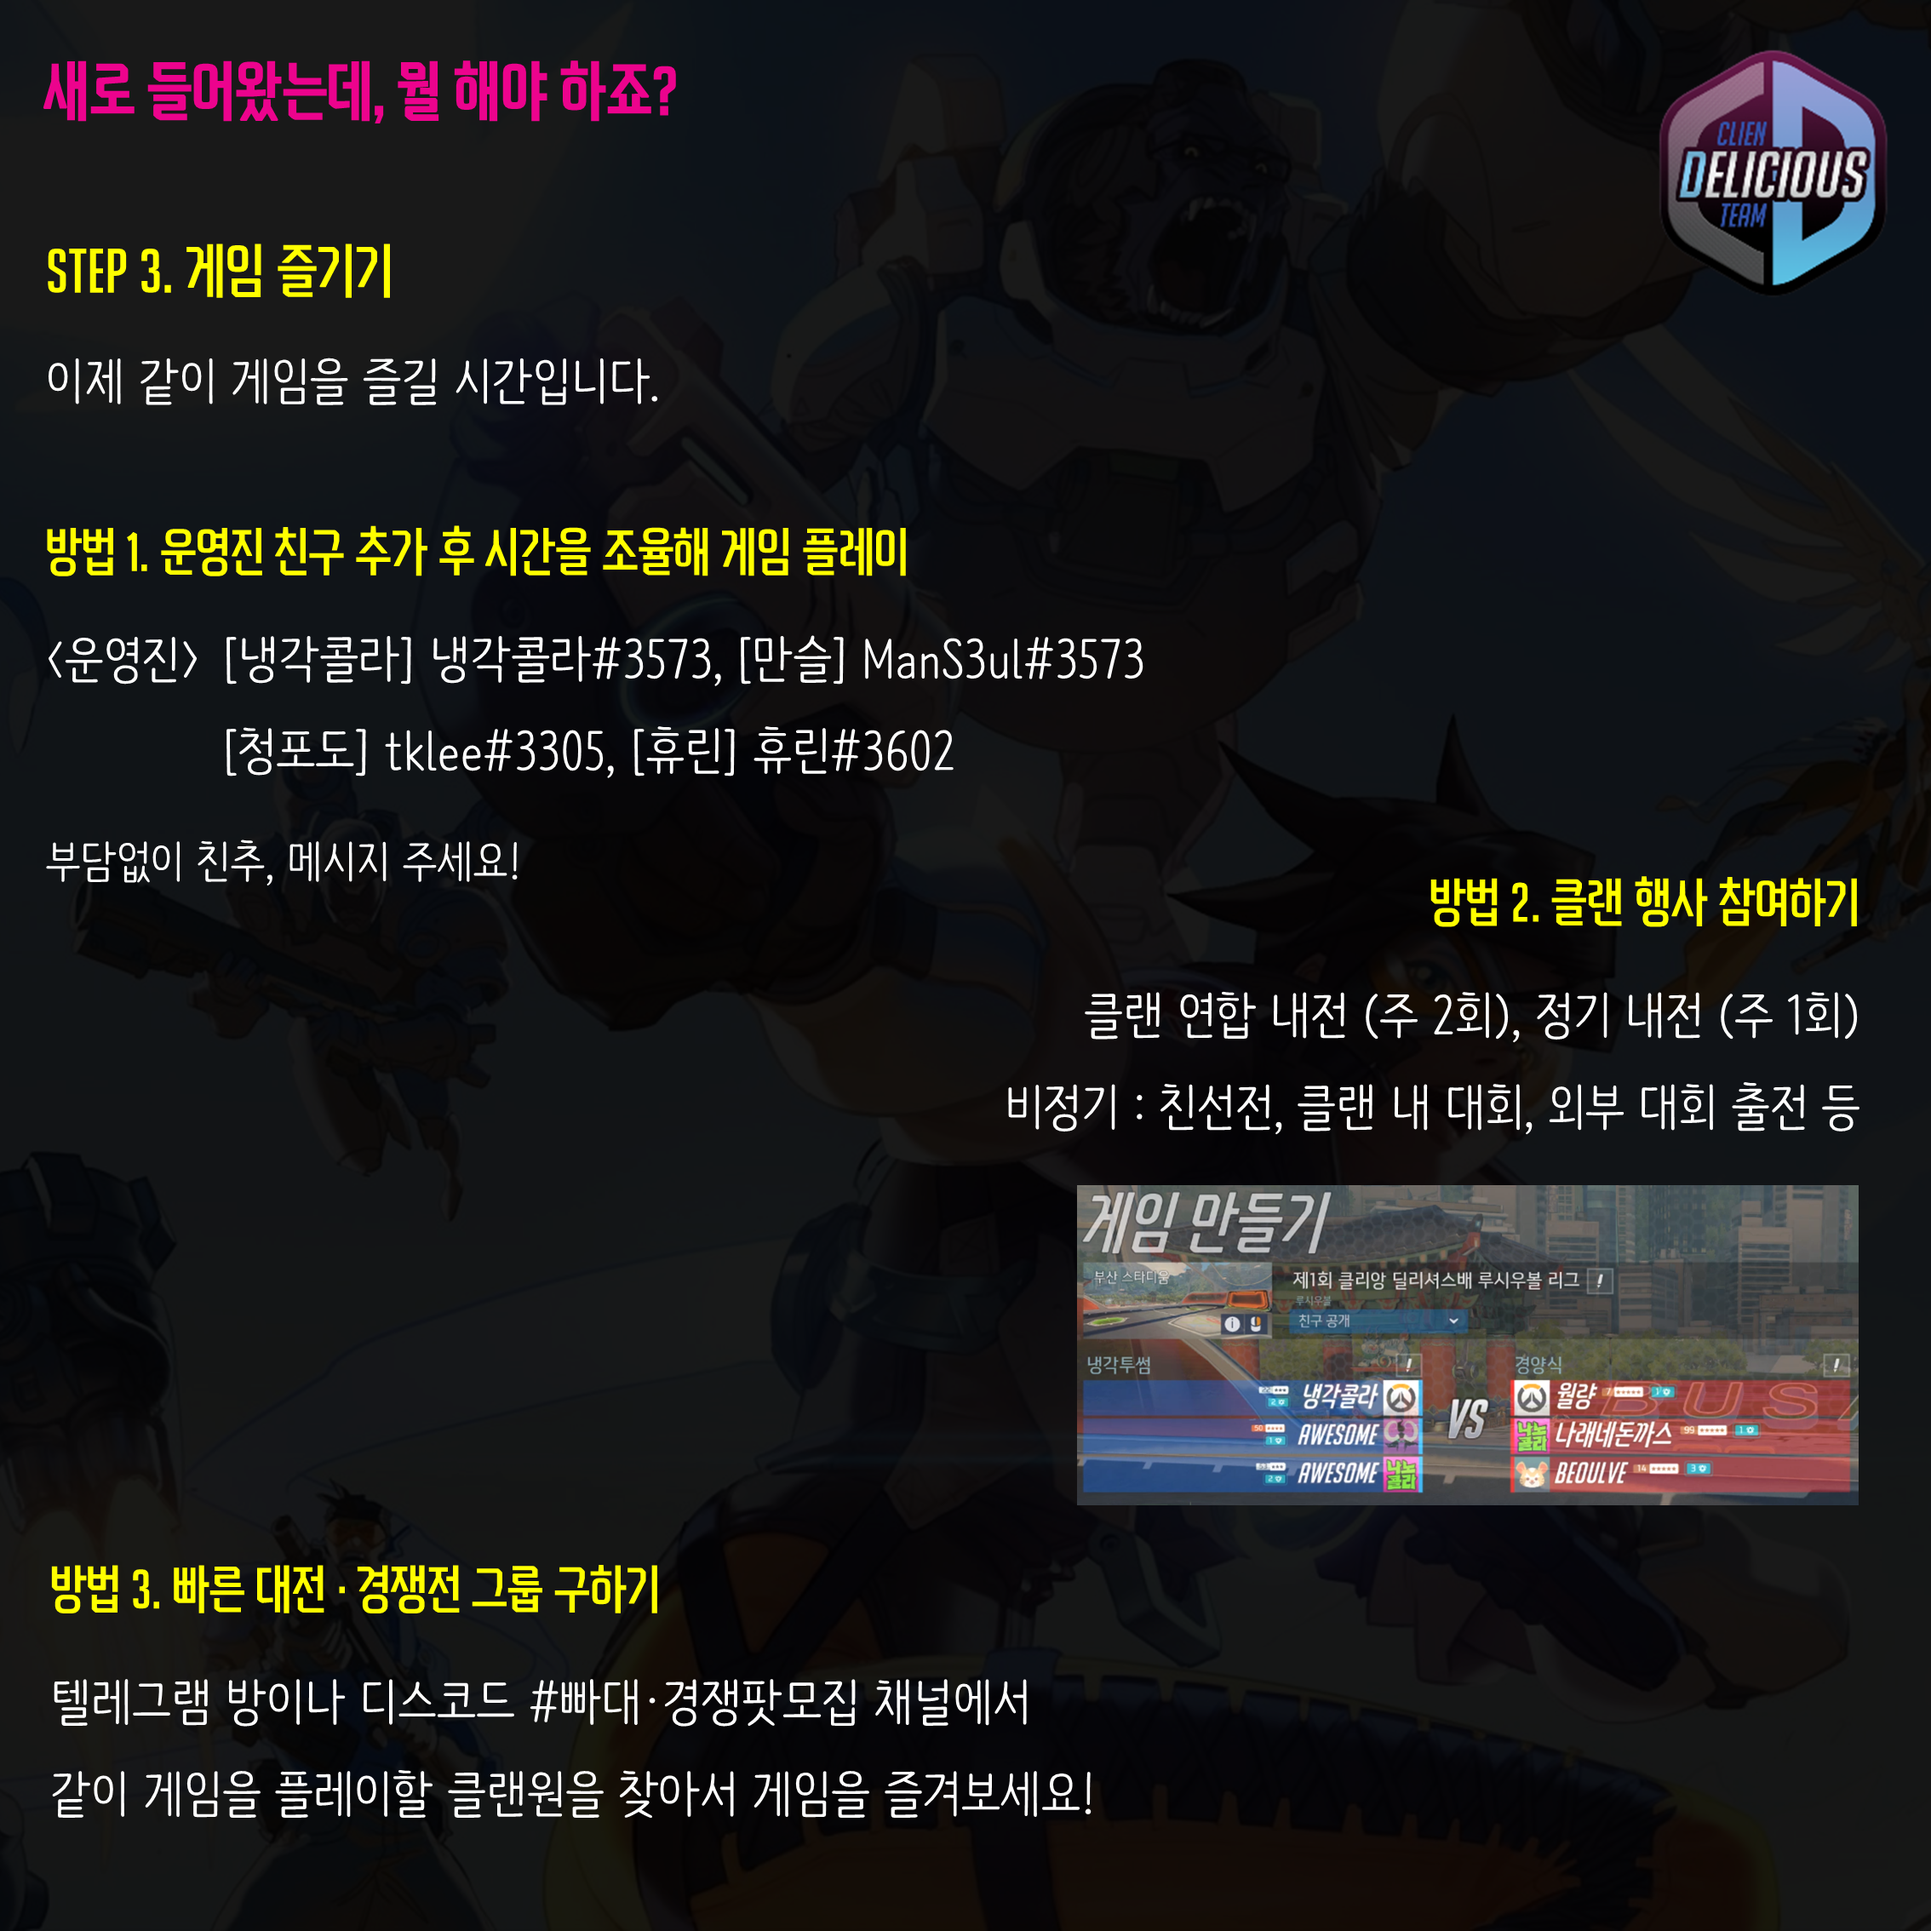
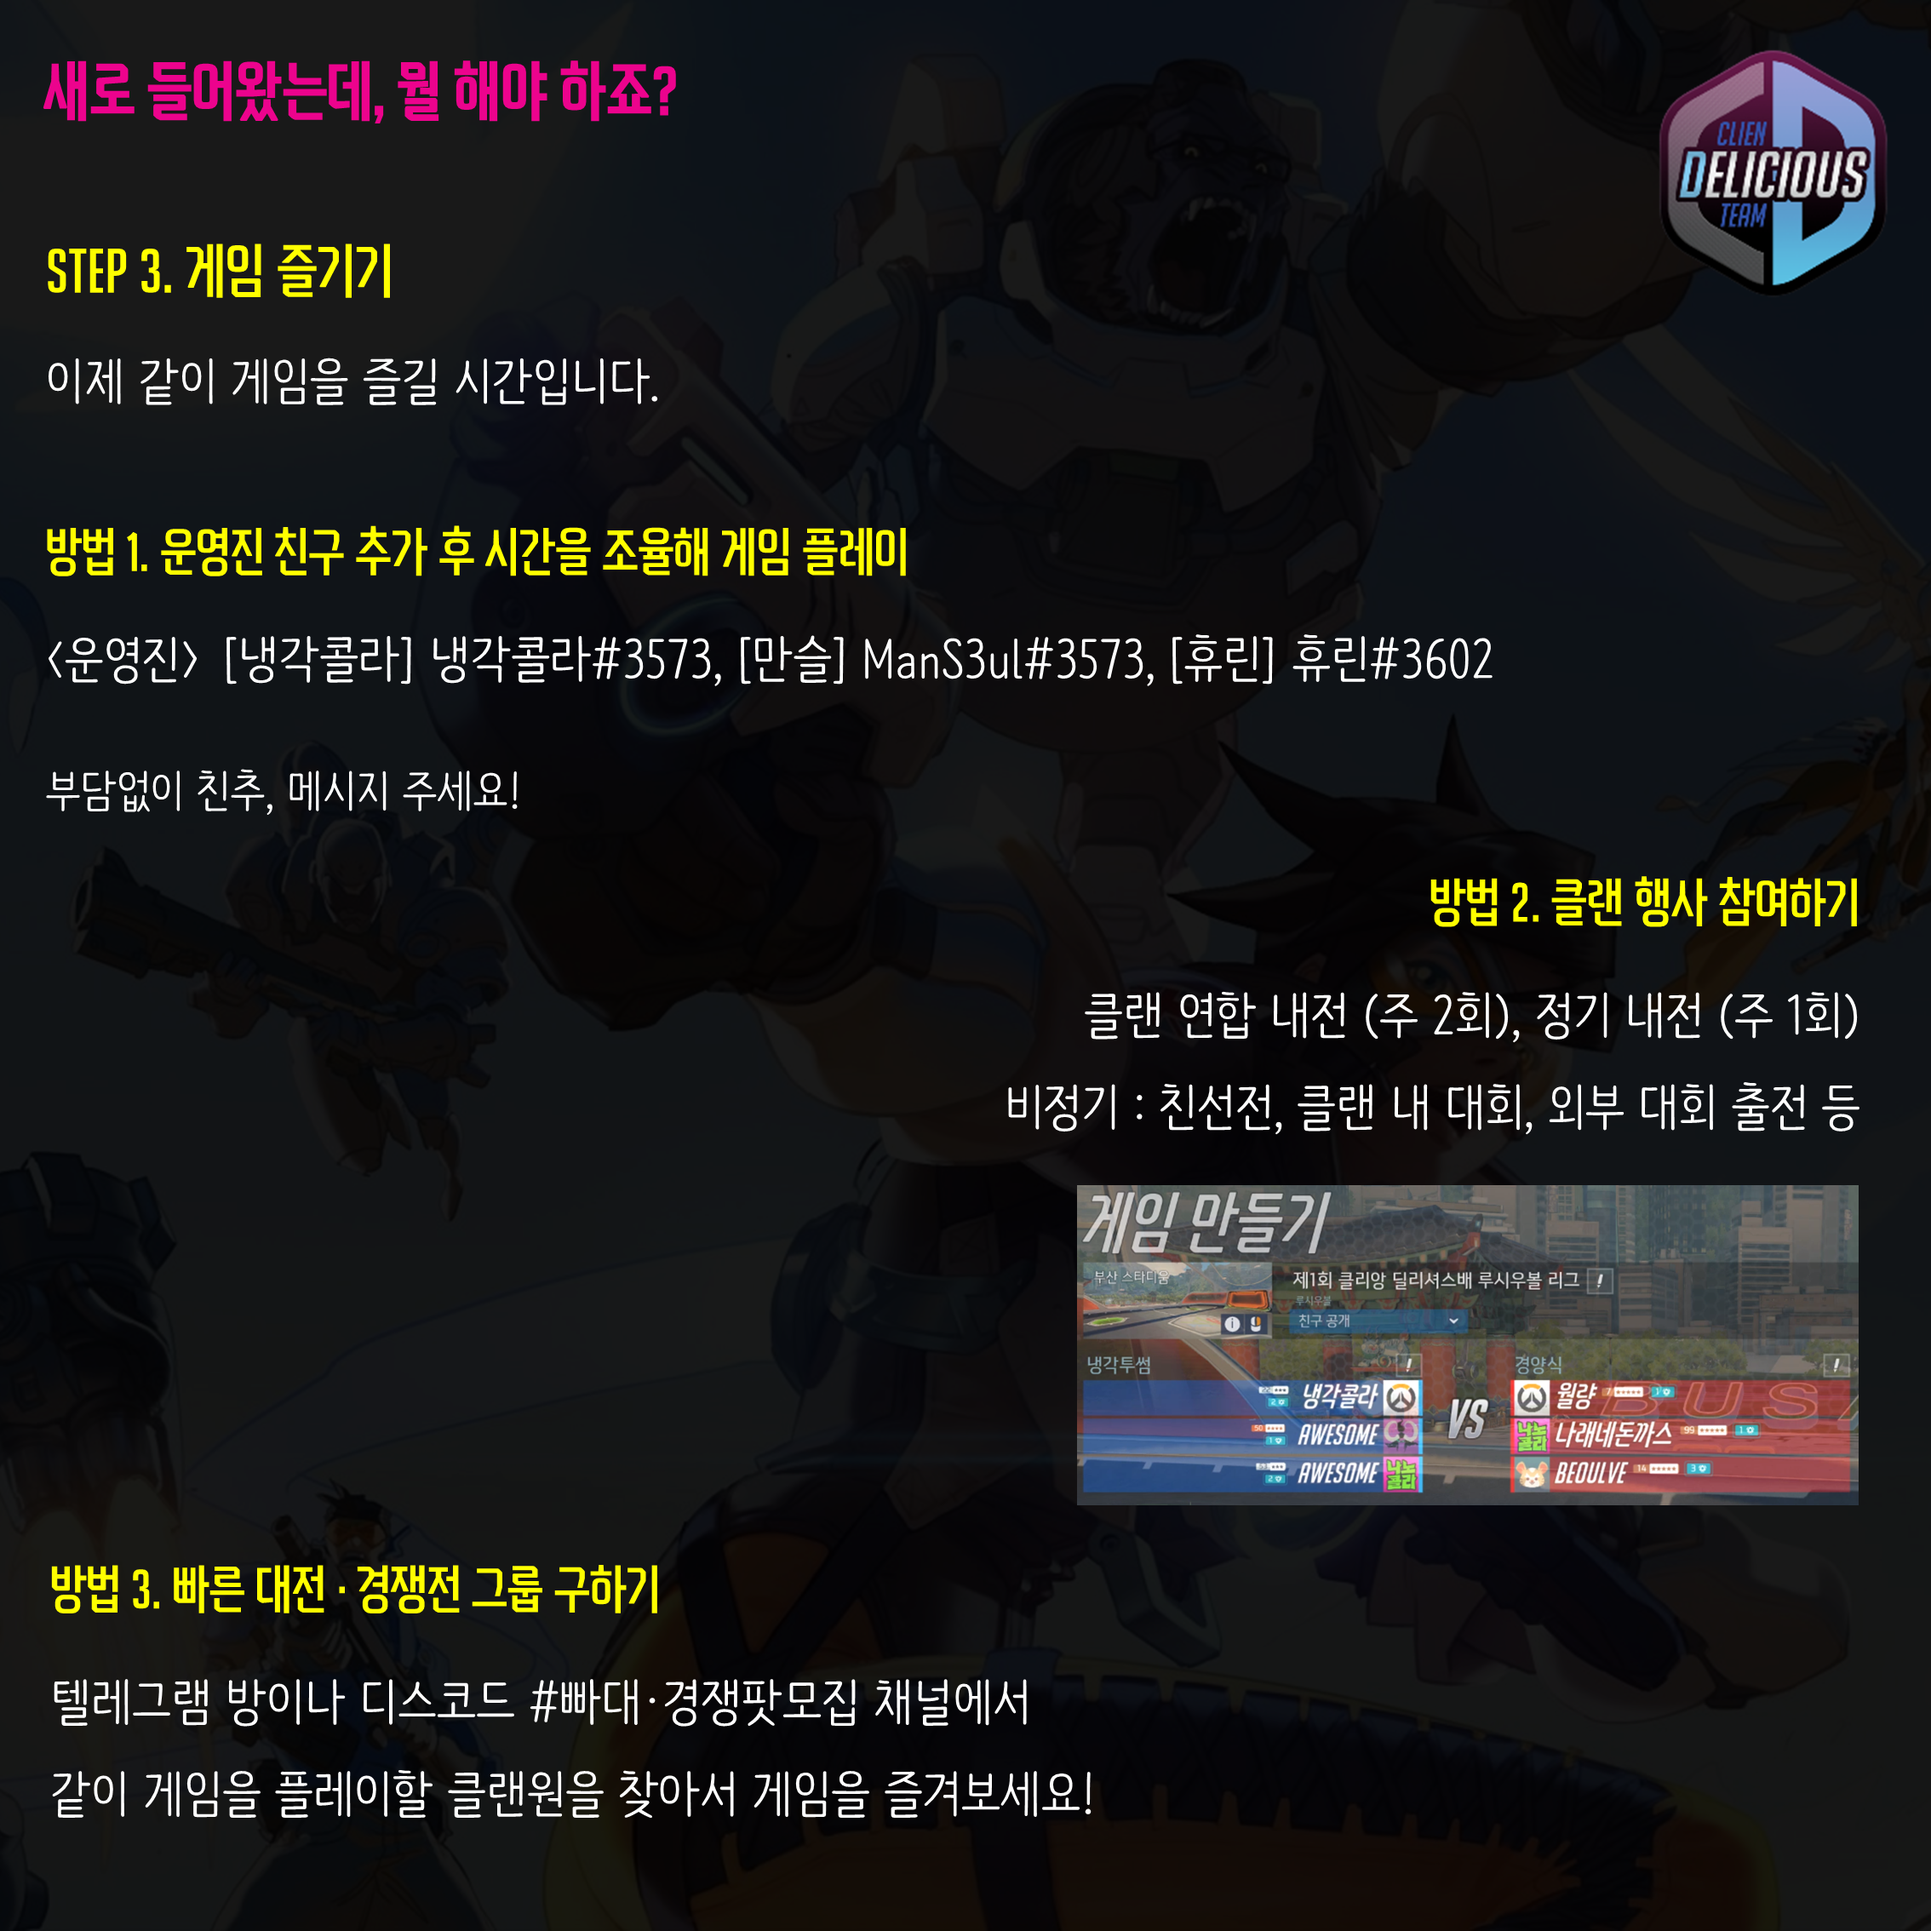
이미지 변경, 운영자 수정

Changed region(s): [[0.0309, 0.3704, 0.4938, 0.463], [0.6173, 0.3086, 0.7716, 0.3704]]

diff --git a/Athena/System/CBotClient.cs b/Athena/System/CBotClient.cs
@@ -145,8 +145,8 @@ namespace Athena
                         CUser user = new CUser();
                         user = setUserInfo(row, Convert.ToInt64(row[10].ToString()));
 
-                        // 휴린, 냉각콜라, 만슬, 청포도일 경우
-                        if ( (user.UserKey == 23842788) || (user.UserKey == 50872681) || (user.UserKey == 474057213) || (user.UserKey == 35432635) )
+                        // 휴린, 냉각콜라, 만슬일 경우
+                        if ( (user.UserKey == 23842788) || (user.UserKey == 50872681) || (user.UserKey == 474057213) )
                         {
                             // 유저 타입을 관리자로
                             user.UserType = USER_TYPE.USER_TYPE_ADMIN;
@@ -192,8 +192,8 @@ namespace Athena
             user.Time = row[8].ToString();
             user.Info = row[9].ToString();
 
-            // 휴린, 냉각콜라, 만슬, 청포도일 경우
-            if ((user.UserKey == 23842788) || (user.UserKey == 50872681) || (user.UserKey == 474057213) || (user.UserKey == 35432635))
+            // 휴린, 냉각콜라, 만슬일 경우
+            if ((user.UserKey == 23842788) || (user.UserKey == 50872681) || (user.UserKey == 474057213))
             {
                 // 유저 타입을 관리자로
                 user.UserType = USER_TYPE.USER_TYPE_ADMIN;
@@ -384,12 +384,6 @@ namespace Athena
                     strInfo += "운영자 냉각콜라(@Seungman),\n";
                     strInfo += "운영자 만슬(@mans3ul)에게 문의해주세요.\n";
                     strInfo += "\n";
-                    strInfo += "우리 클랜의 모든 일정관리 및 운영은\n";
-                    strInfo += "통합문서를 통해 확인 하실 수 있습니다.\n";
-                    strInfo += "(https://goo.gl/nurbLT [딜리셔스.kr])\n";
-                    strInfo += "통합 문서에 대해 문의사항이 있으실 때는\n";
-                    strInfo += "운영자 청포도(@leetk321)에게 문의해주세요.\n";
-                    strInfo += "\n";
                     strInfo += "클랜원들의 편의를 위한\n";
                     strInfo += "저, 아테나의 기능을 확인하시려면\n";
                     strInfo += "/도움말 을 입력해주세요.\n";
@@ -397,6 +391,10 @@ namespace Athena
                     strInfo += "앞으로 더 추가될 예정입니다.\n";
                     strInfo += "아테나에 대해 문의사항이 있으실 때는\n";
                     strInfo += "운영자 휴린(@hyulin)에게 문의해주세요.\n";
+                    strInfo += "\n";
+                    strInfo += "우리 클랜의 모든 일정관리 및 운영은\n";
+                    strInfo += "통합문서를 통해 확인 하실 수 있습니다.\n";
+                    strInfo += "(https://goo.gl/nurbLT [딜리셔스.kr])\n";
                     strInfo += "\n";
                     strInfo += "저희 CDT에서 즐거운 오버워치 생활,\n";
                     strInfo += "그리고 더 나아가 즐거운 라이프를\n";
@@ -523,7 +521,7 @@ namespace Athena
             if (strCommend == "/도움말" || strCommend == "/help" || strCommend == "/help@CDT_Noti_Bot")
             {
                 strPrint += "==================================\n";
-                strPrint += "[ 아테나 v1.5 ]\n[ Clien Delicious Team Notice Bot ]\n\n";
+                strPrint += "[ 아테나 v2.0 ]\n[ Clien Delicious Team Notice Bot ]\n\n";
                 strPrint += "/공지 : 클랜 공지사항을 출력합니다.\n";
                 strPrint += "/일정 : 이번 달 클랜 일정을 확인합니다.\n";
                 strPrint += "/등록 [본 계정 배틀태그] : 아테나에 등록 합니다.\n";
